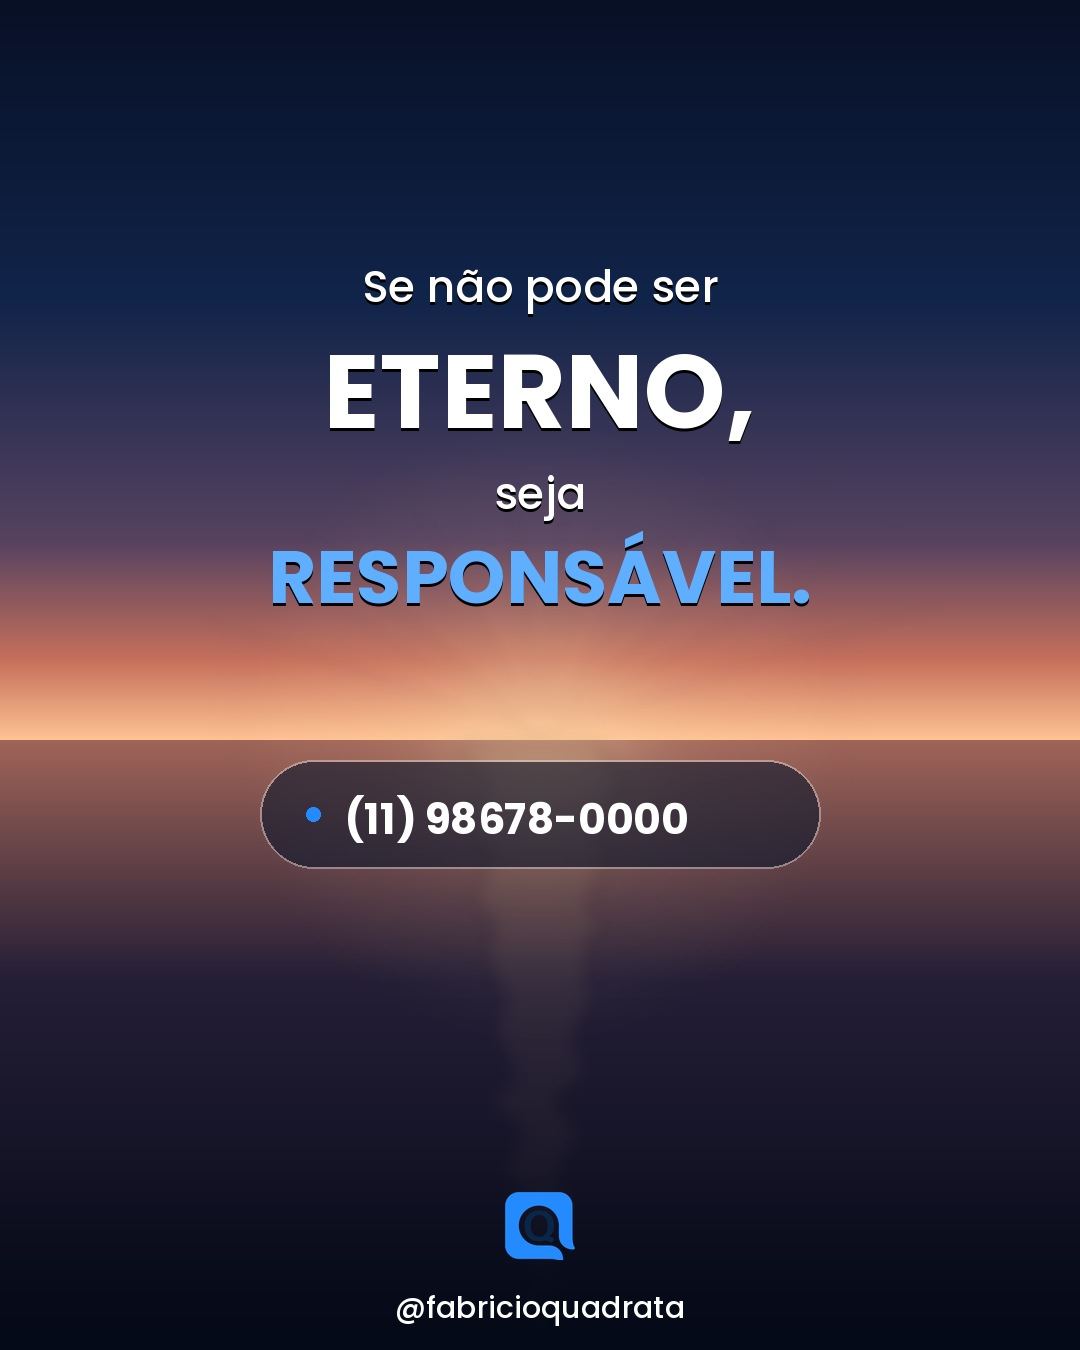
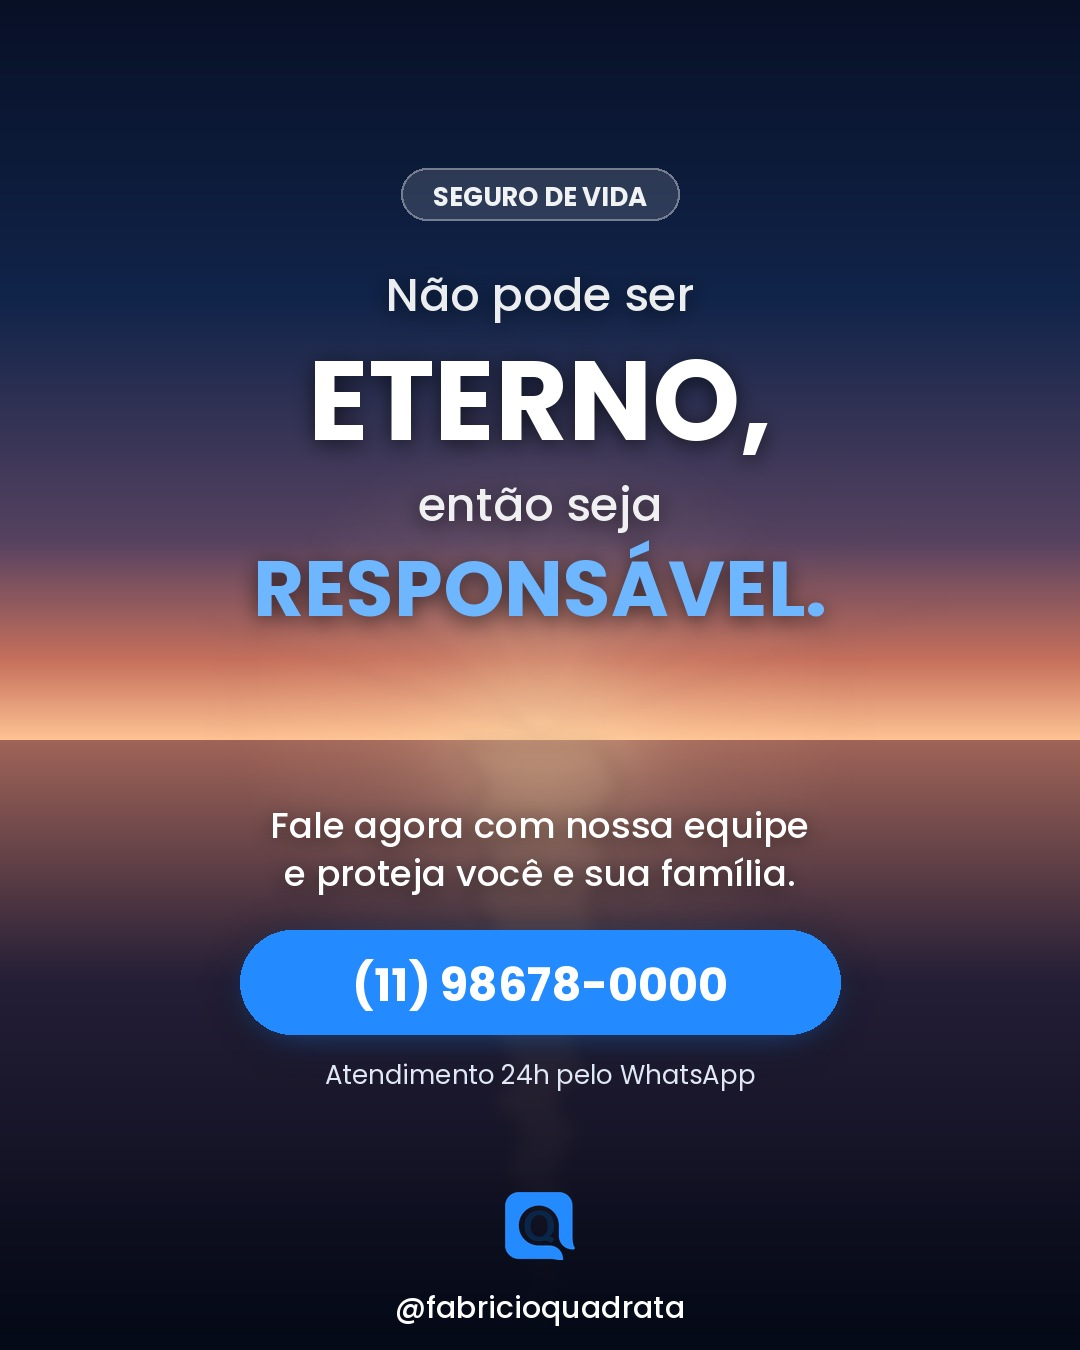
Atualiza post 016 com a nova frase e chamada de venda
Frase passa a ser "Não pode ser eterno, então seja responsável", com
selo "Seguro de vida", chamada "Fale agora com nossa equipe e proteja
você e sua família" e botão azul com o WhatsApp. Sombra do texto
desfocada pra acabamento mais suave. Legenda alinhada à nova frase.

Claude-Session: https://claude.ai/code/session_01Lns6JiNrCrKfT21QJXh2L5

Changed region(s): [[0.2139, 0.1244, 0.7639, 0.4667], [0.2139, 0.56, 0.7944, 0.8089]]

diff --git a/posts/016_seguro_vida_responsavel/gerar_slide.py b/posts/016_seguro_vida_responsavel/gerar_slide.py
@@ -27,10 +27,6 @@ def paste(img, src, w, xy):
     img.alpha_composite(s, xy)
 def ctext(d, y, t, font, fill):
     w = d.textlength(t, font=font); d.text(((W - w) / 2, y), t, font=font, fill=fill)
-def ctext_shadow(d, y, t, font, fill, shadow=(0, 0, 0, 120), off=3):
-    w = d.textlength(t, font=font); x = (W - w) / 2
-    d.text((x, y + off), t, font=font, fill=shadow)
-    d.text((x, y), t, font=font, fill=fill)
 def lerp(c1, c2, t): return tuple(int(c1[i] + (c2[i] - c1[i]) * t) for i in range(3))
 
 # ---------- fundo: entardecer suave sobre o mar ----------
@@ -86,28 +82,52 @@ for y in range(HORIZON + 6, H, 8):
 refl = refl.filter(ImageFilter.GaussianBlur(9))
 im = Image.alpha_composite(im, refl)
 
-d = ImageDraw.Draw(im)
+# ---------- texto com sombra desfocada (acabamento suave) ----------
+def soft_text(img, items):
+    shadow = Image.new('RGBA', (W, H), (0, 0, 0, 0)); sd = ImageDraw.Draw(shadow)
+    for y, t, font, _ in items:
+        w = sd.textlength(t, font=font); sd.text(((W - w) / 2, y + 4), t, font=font, fill=(0, 0, 0, 150))
+    img = Image.alpha_composite(img, shadow.filter(ImageFilter.GaussianBlur(10)))
+    layer = Image.new('RGBA', (W, H), (0, 0, 0, 0)); ld = ImageDraw.Draw(layer)
+    for y, t, font, fill in items:
+        w = ld.textlength(t, font=font); ld.text(((W - w) / 2, y), t, font=font, fill=fill)
+    return Image.alpha_composite(img, layer)
 
-# ---------- texto: frase solta sobre o fundo, leve e com respiro ----------
-ctext_shadow(d, 255, 'Se não pode ser', f('Medium', 44), (255, 255, 255, 235))
-ctext_shadow(d, 318, 'ETERNO,', f('Bold', 104), WHITE)
-ctext_shadow(d, 462, 'seja', f('Medium', 44), (255, 255, 255, 235))
-ctext_shadow(d, 525, 'RESPONSÁVEL.', f('Bold', 74), (96, 174, 255, 255))
+# selo de contexto
+tag = Image.new('RGBA', (W, H), (0, 0, 0, 0)); td = ImageDraw.Draw(tag)
+tf = f('Bold', 26); tlabel = 'SEGURO DE VIDA'
+tw = td.textlength(tlabel, font=tf) + 64
+td.rounded_rectangle(((W - tw) / 2, 168, (W + tw) / 2, 220), radius=26, fill=(255, 255, 255, 34), outline=(255, 255, 255, 110), width=2)
+td.text(((W - tw) / 2 + 32, 178), tlabel, font=tf, fill=(255, 255, 255, 240))
+im = Image.alpha_composite(im, tag)
 
-# ---------- botão do telefone: elemento próprio, separado da frase ----------
-pill_w, pill_h = 560, 108
-px0, py0 = (W - pill_w) // 2, 760
-pill = Image.new('RGBA', (W, H), (0, 0, 0, 0)); pd = ImageDraw.Draw(pill)
-pd.rounded_rectangle((px0, py0, px0 + pill_w, py0 + pill_h), radius=pill_h // 2, fill=(8, 20, 42, 150))
-pd.rounded_rectangle((px0, py0, px0 + pill_w, py0 + pill_h), radius=pill_h // 2, outline=(255, 255, 255, 90), width=2)
-im = Image.alpha_composite(im, pill)
+im = soft_text(im, [
+    (262, 'Não pode ser', f('Medium', 46), (255, 255, 255, 235)),
+    (322, 'ETERNO,', f('Bold', 112), WHITE),
+    (472, 'então seja', f('Medium', 46), (255, 255, 255, 235)),
+    (534, 'RESPONSÁVEL.', f('Bold', 78), (110, 182, 255, 255)),
+])
+
+# chamada de venda
+im = soft_text(im, [
+    (800, 'Fale agora com nossa equipe', f('Medium', 36), WHITE),
+    (848, 'e proteja você e sua família.', f('Medium', 36), WHITE),
+])
+
+# botão do telefone (azul sólido da marca, com brilho suave)
+bw, bh = 600, 104
+bx, by = (W - bw) // 2, 930
+glow_b = Image.new('RGBA', (W, H), (0, 0, 0, 0)); gb = ImageDraw.Draw(glow_b)
+gb.rounded_rectangle((bx, by + 8, bx + bw, by + bh + 8), radius=bh // 2, fill=(36, 138, 255, 140))
+im = Image.alpha_composite(im, glow_b.filter(ImageFilter.GaussianBlur(22)))
+btn = Image.new('RGBA', (W, H), (0, 0, 0, 0)); bd = ImageDraw.Draw(btn)
+bd.rounded_rectangle((bx, by, bx + bw, by + bh), radius=bh // 2, fill=BLUE)
+pf = f('Bold', 46); phone = '(11) 98678-0000'
+pw = bd.textlength(phone, font=pf)
+bd.text(((W - pw) / 2, by + 22), phone, font=pf, fill=WHITE)
+im = Image.alpha_composite(im, btn)
 d = ImageDraw.Draw(im)
-dot_r = 7
-d.ellipse((px0 + 46, py0 + pill_h // 2 - dot_r, px0 + 46 + dot_r * 2, py0 + pill_h // 2 + dot_r), fill=BLUE)
-phone = '(11) 98678-0000'
-pf = f('Bold', 42)
-tw = d.textlength(phone, font=pf)
-d.text((px0 + 46 + dot_r * 2 + 24, py0 + (pill_h - 50) // 2), phone, font=pf, fill=WHITE)
+ctext(d, by + bh + 22, 'Atendimento 24h pelo WhatsApp', f('Regular', 26), (225, 232, 245))
 
 # ---------- rodapé: logo + @fabricioquadrata ----------
 scrim = Image.new('RGBA', (W, H), (0, 0, 0, 0)); sd = ImageDraw.Draw(scrim)
